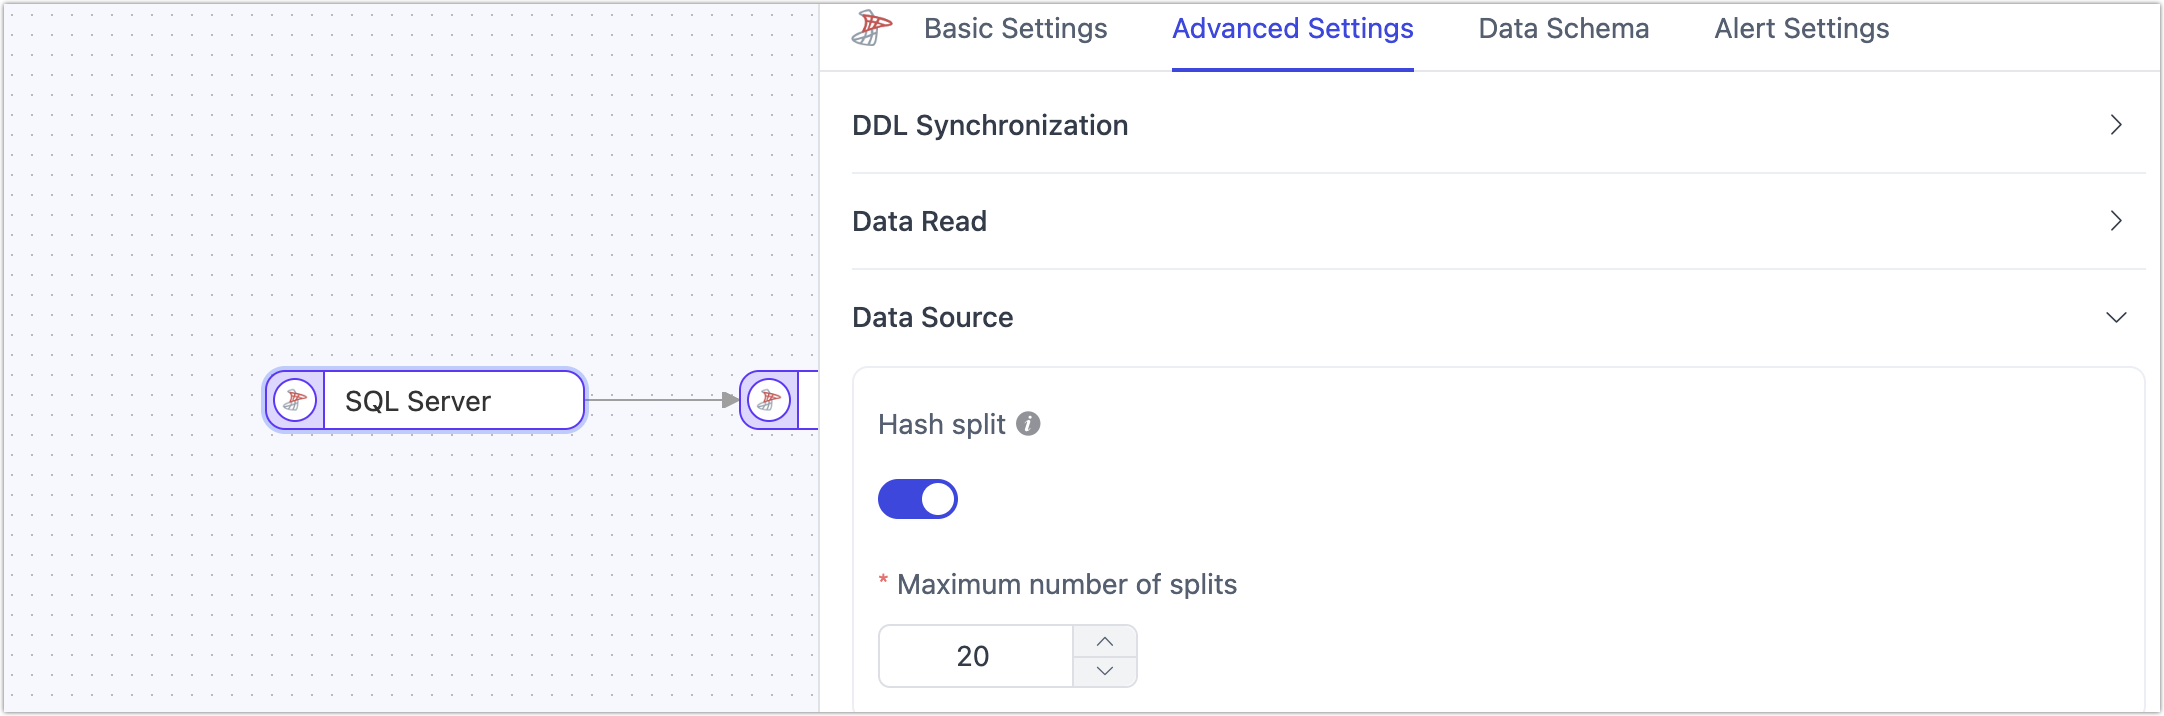
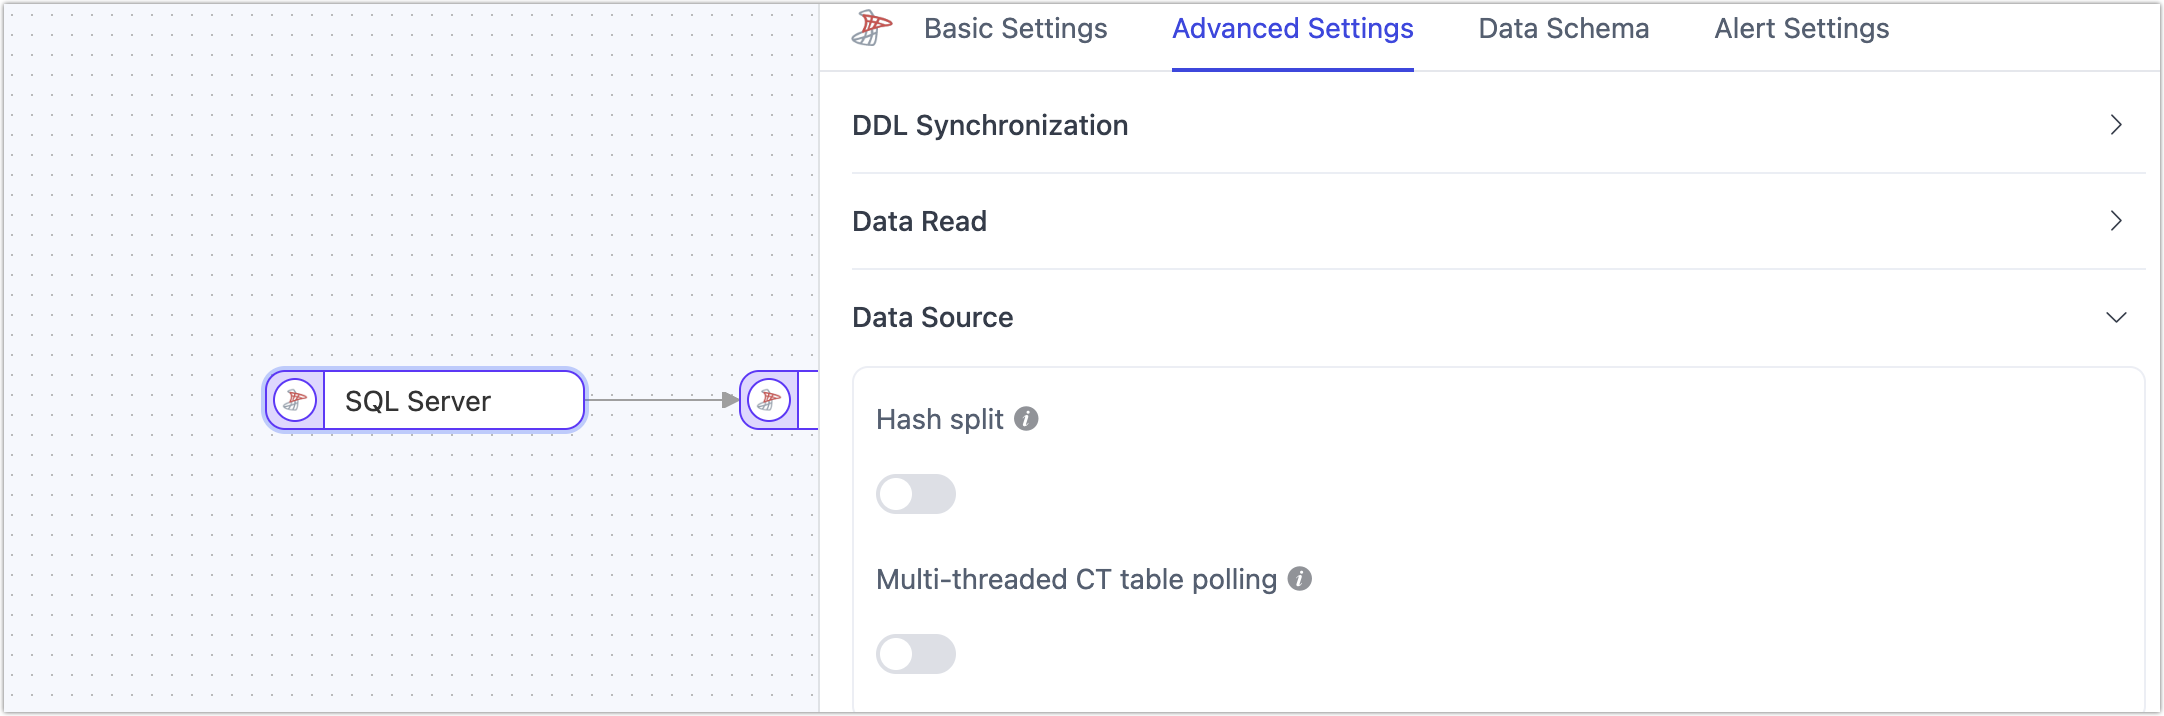
part 2

diff --git a/i18n/en/docusaurus-plugin-content-docs/current/prerequisites/on-prem-databases/sqlserver.md b/i18n/en/docusaurus-plugin-content-docs/current/prerequisites/on-prem-databases/sqlserver.md
@@ -313,9 +313,19 @@ After completing the configuration, be sure to securely store the certificate-re
 
 ## Advanced Node Features
 
-When configuring data synchronization or transformation tasks with SQL Server as a source node, you can enable **Hash Partitioning** and set the maximum number of partitions. During full synchronization, data is split into multiple partitions based on hash values and read concurrently to significantly improve performance, though it may increase the load on the database.
+When configuring SQL Server as the source node for a task, TapData provides several advanced features to enhance performance and handle complex scenarios:
 
-![Advanced Node Settings](../../images/sql_server_node_advanced_settings.png)
+![Node Advanced Settings](../../images/sql_server_node_advanced_settings.png)
+
+* **Hash Split**: Disabled by default. When enabled, TapData will split the data into multiple shards based on hash values during the full sync phase, allowing concurrent reads. This significantly improves read performance but increases the load on the database.
+
+* **Multi-threaded CT Table Polling**: Disabled by default. If the source SQL Server has a large number of tables (over 500) that need to be synchronized, enabling this option will optimize incremental data collection performance and improve synchronization efficiency.
+
+  :::tip
+
+  This feature is only supported when configuring data replication tasks.
+
+  :::
 
 ## Frequently Asked Questions
 

diff --git a/i18n/en/docusaurus-plugin-content-docs/current/prerequisites/mq-and-middleware/kafka-enhanced.md b/i18n/en/docusaurus-plugin-content-docs/current/prerequisites/mq-and-middleware/kafka-enhanced.md
@@ -6,7 +6,7 @@ This article explains how to add a Kafka-Enhanced data source in TapData, allowi
 
 :::tip
 
-Kafka Enhanced will be available in the upcoming version 3.15.
+Kafka-Enhanced has been supported since version 3.15.
 
 :::
 
@@ -17,7 +17,7 @@ import TabItem from '@theme/TabItem';
 
 ## Supported Versions and Architectures
 
-* **Versions**: Kafka 2.0 ~ 2.5 or Scala 2.12 
+* **Versions**: Kafka 2.0 ~ 2.5 (built on Scala 2.12)
 * **Architectures**: Single-node or cluster
 
 ## Supported Data Types
